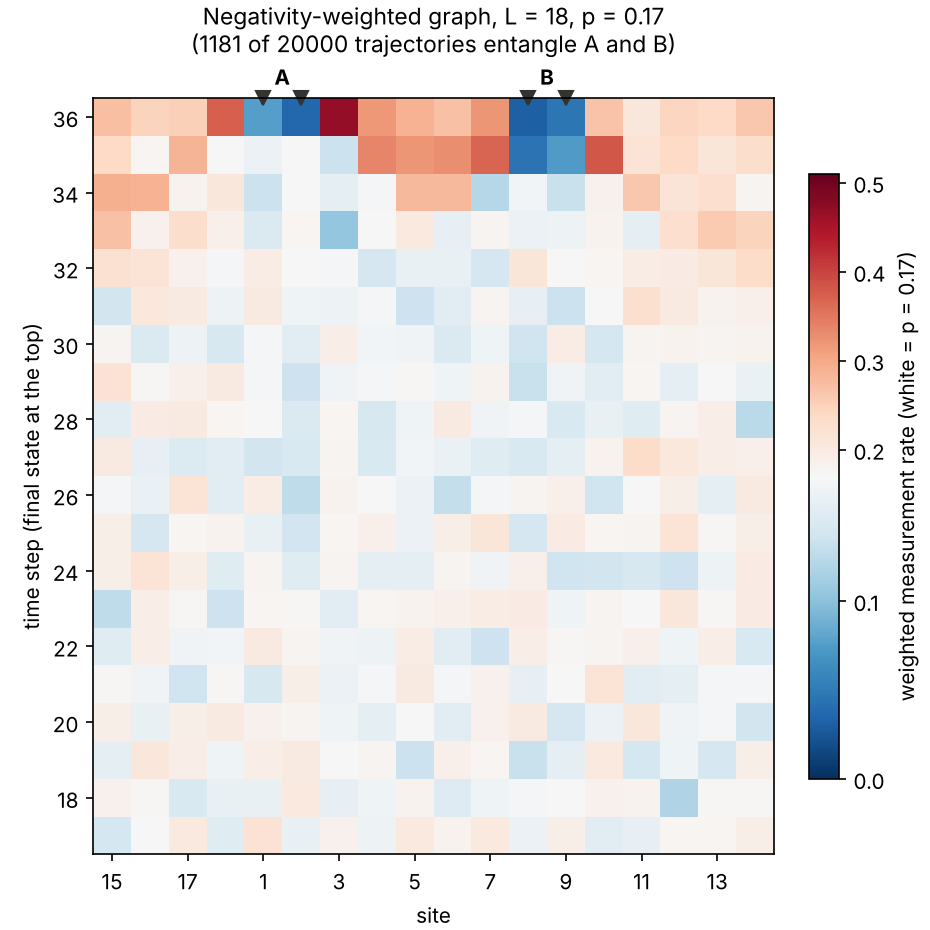
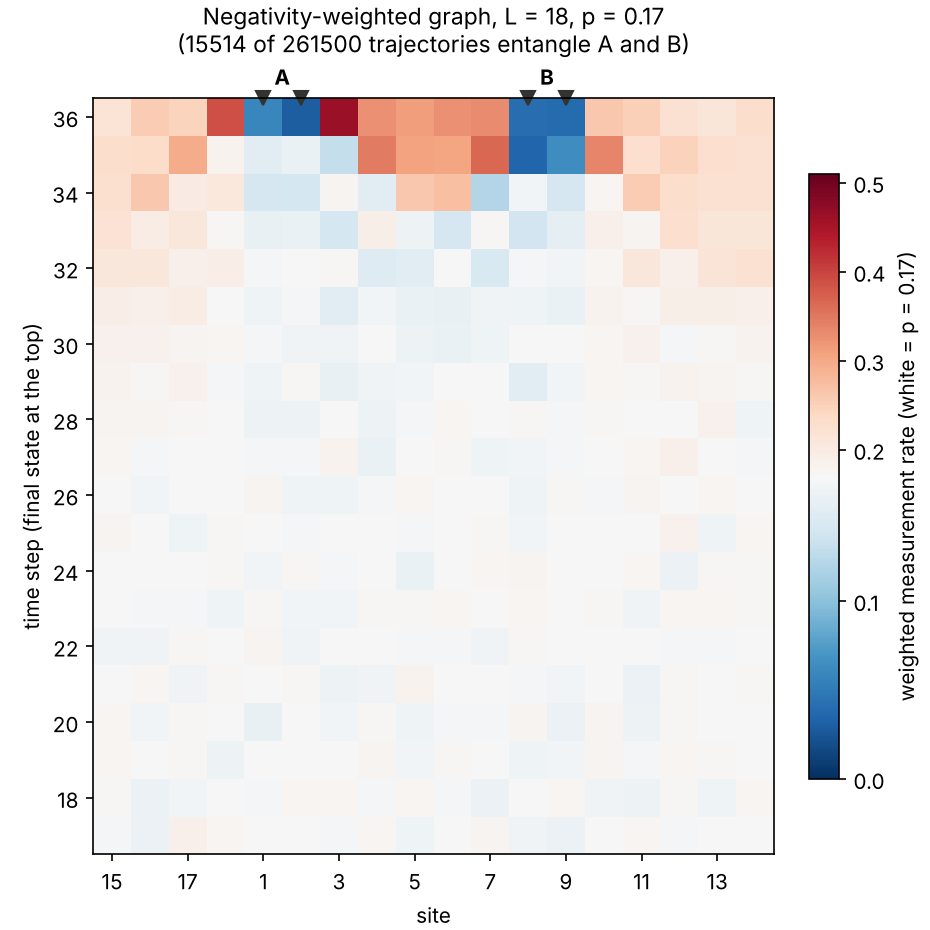
EWG at 261,500 trajectories: low-measurement bulk now visible
Merges the original 20k run, a 40k cloud shard and 201.5k trajectories
from the Mac. Notebook and README describe the bulk between A and B and
the halo on the far side; notebook lint fixes.

Claude-Session: https://claude.ai/code/session_01HKCg1ZuMBem4opJak6JFeg

diff --git a/README.md b/README.md
@@ -12,9 +12,11 @@ A guided tour with the circuit, both results and the distance decay from the pap
 
 ## Entanglement-weighted graphs
 
-At the critical point, two distant regions are usually not entangled. An entanglement-weighted graph ([Lyu et al., arXiv:2602.04969](https://arxiv.org/abs/2602.04969), Sec. III B) averages the binary measurement record W(x, t) of each trajectory with weight equal to the entanglement it produced, Σ E·W / Σ E, which shows where measurements help or hurt. `scripts/ewg_run.py` samples L = 18, p = 0.17 with A = qubits (1, 2) and B = (8, 9) (1-based), and stores every record, its seed, and the negativity, log-negativity and mutual information between A and B (computed with `medt`). `scripts/ewg_plot.py` draws the graphs.
+At the critical point, two distant regions are usually not entangled. An entanglement-weighted graph ([Lyu et al., arXiv:2602.04969](https://arxiv.org/abs/2602.04969), Sec. III B) averages the binary measurement record W(x, t) of each trajectory with weight equal to the entanglement it produced, Σ E·W / Σ E, which shows where measurements help or hurt. `scripts/ewg_run.py` samples L = 18, p = 0.17 with A = qubits (1, 2) and B = (8, 9) (1-based), and stores every record, its seed, and the negativity, log-negativity and mutual information between A and B. Trajectory k uses seed k, so runs on different machines can be merged with `scripts/ewg_merge.py`. `scripts/ewg_plot.py` draws the negativity-weighted graph for the last 20 time steps.
 
-![entanglement-weighted graphs](results/ewg_L18_p0.17.png)
+![entanglement-weighted graph](results/ewg_L18_p0.17.png)
+
+**Result** (261,500 trajectories, of which about 15,500 entangle A and B; bootstrap uncertainty about ±0.006 per cell). A and B are rarely measured at the very end, while the qubits between them are measured about twice as often as p in the last two layers. Below that, a low-measurement bulk (about 0.16) joins A and B for roughly six time steps, and a halo of extra measurements (0.18 to 0.24) covers the far side of the ring. This is the bulk-and-halo structure of the paper's Fig. 6, which used Mølmer–Sørensen gates instead of Haar gates. With only 20,000 trajectories the bulk was lost in the noise.
 
 ## Model
 
@@ -70,11 +72,13 @@ What PennyLane does well here is exact outcome averages. `mipt_sim.pennylane_che
 pip install -e ../multipartite-entanglement-detection-toolkit
 pip install -e .               # the simulator (NumPy only)
 pip install -e ".[dev]"        # adds PennyLane (for the cross-check), pytest, ruff, matplotlib
-pytest -q                      # 12 tests, a few seconds
+pytest -q                      # 13 tests, a few seconds
 python scripts/sweep.py        # writes results/sweep.json (about 15 min on 4 cores)
 python scripts/plot.py         # writes results/entropy_vs_L.png
 python scripts/benchmark.py 12 16 20
-python scripts/ewg_run.py 20000   # writes results/ewg_L18_p0.17.npz (about 1 h on 4 cores)
+python scripts/ewg_run.py 20000                     # writes results/ewg_L18_p0.17.npz (about 1 h on 4 cores)
+python scripts/ewg_run.py 200000 shard.npz 100000 12  # more samples: count, file, first seed, workers
+python scripts/ewg_merge.py merged.npz results/ewg_L18_p0.17.npz shard.npz   # merges shards, dropping repeated seeds
 python scripts/ewg_plot.py        # writes results/ewg_L18_p0.17.png
 ```
 
@@ -82,6 +86,6 @@ python scripts/ewg_plot.py        # writes results/ewg_L18_p0.17.png
 import numpy as np
 from mipt_sim import run_trajectory, half_chain_entropy
 
-psi = run_trajectory(14, 0.1, np.random.default_rng(0))   # L = 14 qubits, p = 0.1
-print(half_chain_entropy(psi))   # bits
+psi = run_trajectory(14, 0.1, np.random.default_rng(0))  # L = 14 qubits, p = 0.1
+print(half_chain_entropy(psi))  # bits
 ```
